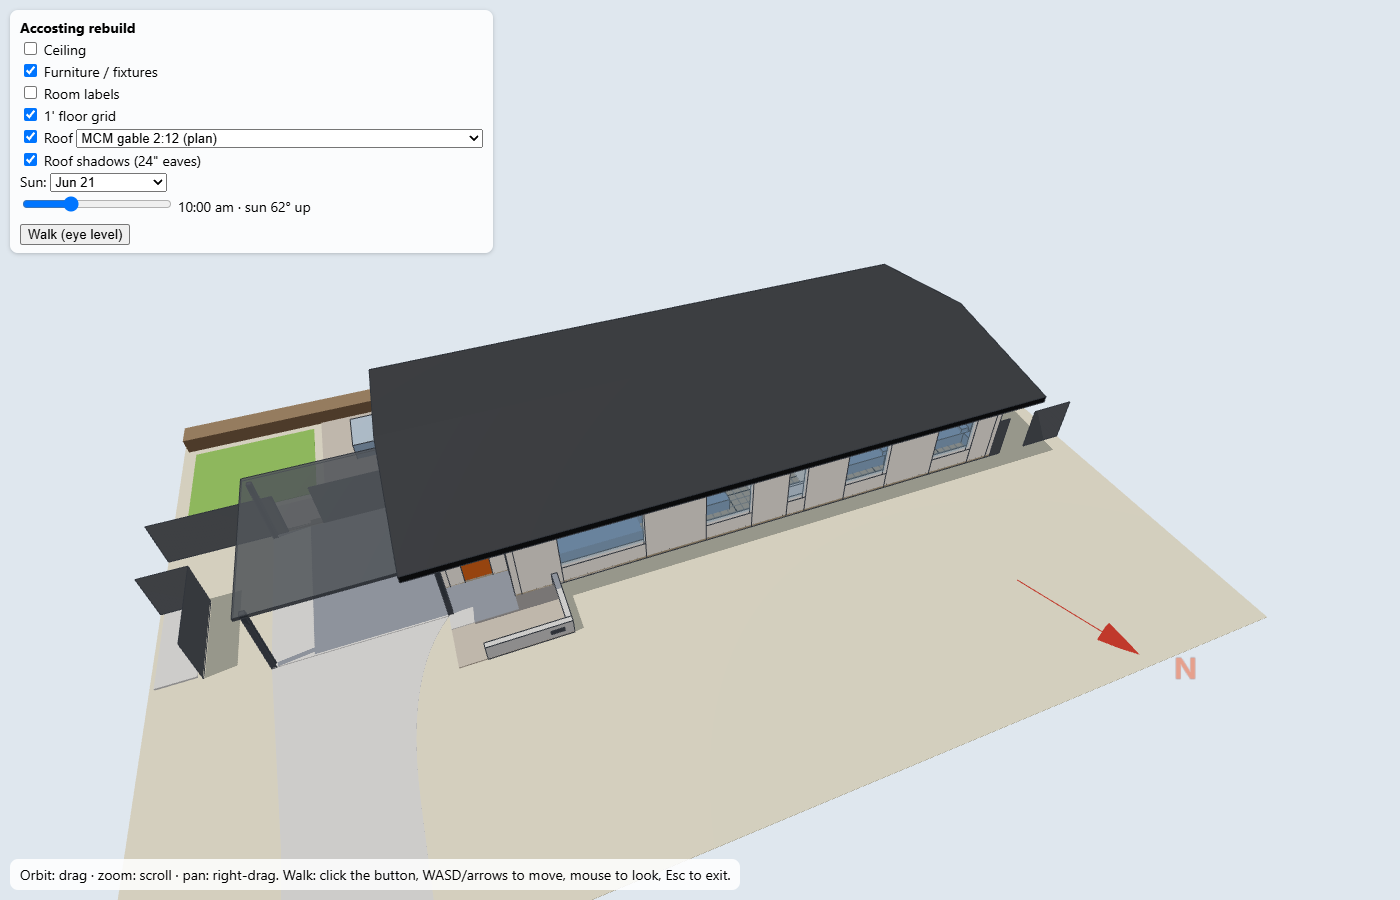
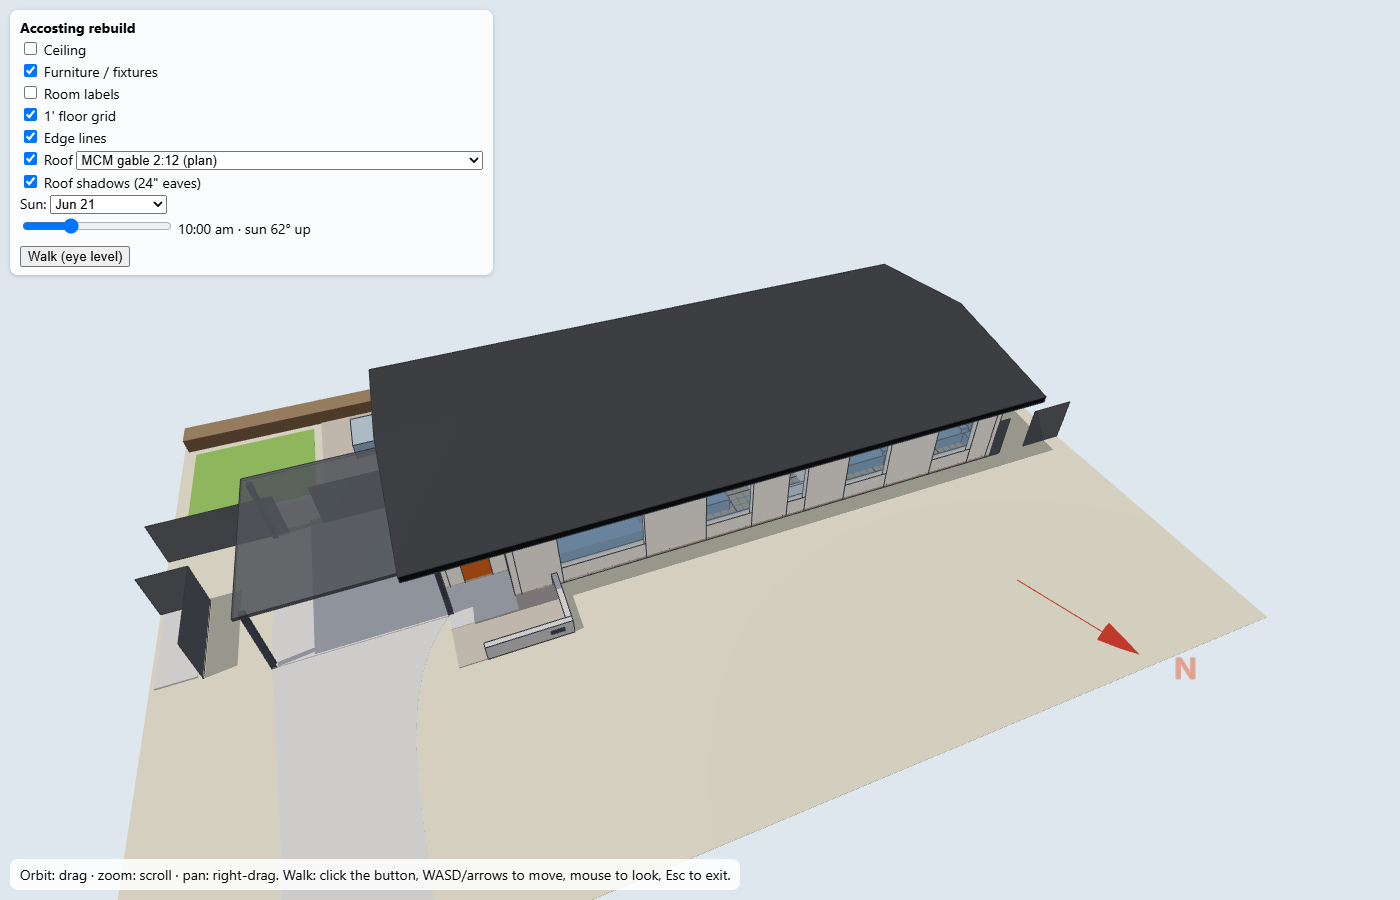
3D viewer: Edge lines toggle hides the outlines between wall pieces (continuous stucco look); #smooth opens with them off

Changed region(s): [[0.0, 0.1244, 0.3686, 0.3111]]

diff --git a/renders/3d/house.html b/renders/3d/house.html
@@ -27,6 +27,7 @@
   <label><input type="checkbox" id="furn" checked> Furniture / fixtures</label>
   <label><input type="checkbox" id="labels" checked> Room labels</label>
   <label><input type="checkbox" id="grid" checked> 1' floor grid</label>
+  <label><input type="checkbox" id="edges" checked> Edge lines</label>
   <label id="roofrow"><input type="checkbox" id="roofvis" checked> Roof
     <select id="roofopt" style="display:none"><option value="0">MCM gable 2:12 (plan)</option></select></label>
   <label><input type="checkbox" id="roofsh" checked> Roof shadows (24" eaves)</label>
@@ -306,6 +307,10 @@ if (location.hash === '#touchwalk') startTouchWalk();         // test hook
 const bind = (id, g) => document.getElementById(id).onchange = e => g.visible = e.target.checked;
 bind('ceil', groups.ceil); bind('furn', groups.furn); bind('labels', groups.labels); bind('roofsh', roofCaster);
 bind('roofvis', groups.roof); bind('grid', gridGroup);
+// Outlines on every face: handy for reading the model, but they also draw the seams between wall
+// pieces, which a real stucco wall doesn't have. One shared material, so one switch hides them all.
+document.getElementById('edges').onchange = e => { EDGE.visible = e.target.checked; };
+if (location.hash.includes('smooth')) { EDGE.visible = false; document.getElementById('edges').checked = false; }
 if (D.roof_hidden && !location.hash.includes('roof')) {     // main model opens with the roof off (#roof shows it)
   groups.roof.visible = false; document.getElementById('roofvis').checked = false;
 } else if (location.hash.includes('roof')) {                // exterior view: room labels would float over the roof

diff --git a/renders/experiments/clerestory-band/house.html b/renders/experiments/clerestory-band/house.html
@@ -27,6 +27,7 @@
   <label><input type="checkbox" id="furn" checked> Furniture / fixtures</label>
   <label><input type="checkbox" id="labels" checked> Room labels</label>
   <label><input type="checkbox" id="grid" checked> 1' floor grid</label>
+  <label><input type="checkbox" id="edges" checked> Edge lines</label>
   <label id="roofrow"><input type="checkbox" id="roofvis" checked> Roof
     <select id="roofopt" style="display:none"><option value="0">MCM gable 2:12 (plan)</option></select></label>
   <label><input type="checkbox" id="roofsh" checked> Roof shadows (24" eaves)</label>
@@ -306,6 +307,10 @@ if (location.hash === '#touchwalk') startTouchWalk();         // test hook
 const bind = (id, g) => document.getElementById(id).onchange = e => g.visible = e.target.checked;
 bind('ceil', groups.ceil); bind('furn', groups.furn); bind('labels', groups.labels); bind('roofsh', roofCaster);
 bind('roofvis', groups.roof); bind('grid', gridGroup);
+// Outlines on every face: handy for reading the model, but they also draw the seams between wall
+// pieces, which a real stucco wall doesn't have. One shared material, so one switch hides them all.
+document.getElementById('edges').onchange = e => { EDGE.visible = e.target.checked; };
+if (location.hash.includes('smooth')) { EDGE.visible = false; document.getElementById('edges').checked = false; }
 if (D.roof_hidden && !location.hash.includes('roof')) {     // main model opens with the roof off (#roof shows it)
   groups.roof.visible = false; document.getElementById('roofvis').checked = false;
 } else if (location.hash.includes('roof')) {                // exterior view: room labels would float over the roof

diff --git a/renders/experiments/clerestory-three3/house.html b/renders/experiments/clerestory-three3/house.html
@@ -27,6 +27,7 @@
   <label><input type="checkbox" id="furn" checked> Furniture / fixtures</label>
   <label><input type="checkbox" id="labels" checked> Room labels</label>
   <label><input type="checkbox" id="grid" checked> 1' floor grid</label>
+  <label><input type="checkbox" id="edges" checked> Edge lines</label>
   <label id="roofrow"><input type="checkbox" id="roofvis" checked> Roof
     <select id="roofopt" style="display:none"><option value="0">MCM gable 2:12 (plan)</option></select></label>
   <label><input type="checkbox" id="roofsh" checked> Roof shadows (24" eaves)</label>
@@ -306,6 +307,10 @@ if (location.hash === '#touchwalk') startTouchWalk();         // test hook
 const bind = (id, g) => document.getElementById(id).onchange = e => g.visible = e.target.checked;
 bind('ceil', groups.ceil); bind('furn', groups.furn); bind('labels', groups.labels); bind('roofsh', roofCaster);
 bind('roofvis', groups.roof); bind('grid', gridGroup);
+// Outlines on every face: handy for reading the model, but they also draw the seams between wall
+// pieces, which a real stucco wall doesn't have. One shared material, so one switch hides them all.
+document.getElementById('edges').onchange = e => { EDGE.visible = e.target.checked; };
+if (location.hash.includes('smooth')) { EDGE.visible = false; document.getElementById('edges').checked = false; }
 if (D.roof_hidden && !location.hash.includes('roof')) {     // main model opens with the roof off (#roof shows it)
   groups.roof.visible = false; document.getElementById('roofvis').checked = false;
 } else if (location.hash.includes('roof')) {                // exterior view: room labels would float over the roof

diff --git a/renders/experiments/clerestory-three4/house.html b/renders/experiments/clerestory-three4/house.html
@@ -27,6 +27,7 @@
   <label><input type="checkbox" id="furn" checked> Furniture / fixtures</label>
   <label><input type="checkbox" id="labels" checked> Room labels</label>
   <label><input type="checkbox" id="grid" checked> 1' floor grid</label>
+  <label><input type="checkbox" id="edges" checked> Edge lines</label>
   <label id="roofrow"><input type="checkbox" id="roofvis" checked> Roof
     <select id="roofopt" style="display:none"><option value="0">MCM gable 2:12 (plan)</option></select></label>
   <label><input type="checkbox" id="roofsh" checked> Roof shadows (24" eaves)</label>
@@ -306,6 +307,10 @@ if (location.hash === '#touchwalk') startTouchWalk();         // test hook
 const bind = (id, g) => document.getElementById(id).onchange = e => g.visible = e.target.checked;
 bind('ceil', groups.ceil); bind('furn', groups.furn); bind('labels', groups.labels); bind('roofsh', roofCaster);
 bind('roofvis', groups.roof); bind('grid', gridGroup);
+// Outlines on every face: handy for reading the model, but they also draw the seams between wall
+// pieces, which a real stucco wall doesn't have. One shared material, so one switch hides them all.
+document.getElementById('edges').onchange = e => { EDGE.visible = e.target.checked; };
+if (location.hash.includes('smooth')) { EDGE.visible = false; document.getElementById('edges').checked = false; }
 if (D.roof_hidden && !location.hash.includes('roof')) {     // main model opens with the roof off (#roof shows it)
   groups.roof.visible = false; document.getElementById('roofvis').checked = false;
 } else if (location.hash.includes('roof')) {                // exterior view: room labels would float over the roof

diff --git a/renders/experiments/clerestory-three5/house.html b/renders/experiments/clerestory-three5/house.html
@@ -27,6 +27,7 @@
   <label><input type="checkbox" id="furn" checked> Furniture / fixtures</label>
   <label><input type="checkbox" id="labels" checked> Room labels</label>
   <label><input type="checkbox" id="grid" checked> 1' floor grid</label>
+  <label><input type="checkbox" id="edges" checked> Edge lines</label>
   <label id="roofrow"><input type="checkbox" id="roofvis" checked> Roof
     <select id="roofopt" style="display:none"><option value="0">MCM gable 2:12 (plan)</option></select></label>
   <label><input type="checkbox" id="roofsh" checked> Roof shadows (24" eaves)</label>
@@ -306,6 +307,10 @@ if (location.hash === '#touchwalk') startTouchWalk();         // test hook
 const bind = (id, g) => document.getElementById(id).onchange = e => g.visible = e.target.checked;
 bind('ceil', groups.ceil); bind('furn', groups.furn); bind('labels', groups.labels); bind('roofsh', roofCaster);
 bind('roofvis', groups.roof); bind('grid', gridGroup);
+// Outlines on every face: handy for reading the model, but they also draw the seams between wall
+// pieces, which a real stucco wall doesn't have. One shared material, so one switch hides them all.
+document.getElementById('edges').onchange = e => { EDGE.visible = e.target.checked; };
+if (location.hash.includes('smooth')) { EDGE.visible = false; document.getElementById('edges').checked = false; }
 if (D.roof_hidden && !location.hash.includes('roof')) {     // main model opens with the roof off (#roof shows it)
   groups.roof.visible = false; document.getElementById('roofvis').checked = false;
 } else if (location.hash.includes('roof')) {                // exterior view: room labels would float over the roof

diff --git a/renders/experiments/clerestory-two5/house.html b/renders/experiments/clerestory-two5/house.html
@@ -27,6 +27,7 @@
   <label><input type="checkbox" id="furn" checked> Furniture / fixtures</label>
   <label><input type="checkbox" id="labels" checked> Room labels</label>
   <label><input type="checkbox" id="grid" checked> 1' floor grid</label>
+  <label><input type="checkbox" id="edges" checked> Edge lines</label>
   <label id="roofrow"><input type="checkbox" id="roofvis" checked> Roof
     <select id="roofopt" style="display:none"><option value="0">MCM gable 2:12 (plan)</option></select></label>
   <label><input type="checkbox" id="roofsh" checked> Roof shadows (24" eaves)</label>
@@ -306,6 +307,10 @@ if (location.hash === '#touchwalk') startTouchWalk();         // test hook
 const bind = (id, g) => document.getElementById(id).onchange = e => g.visible = e.target.checked;
 bind('ceil', groups.ceil); bind('furn', groups.furn); bind('labels', groups.labels); bind('roofsh', roofCaster);
 bind('roofvis', groups.roof); bind('grid', gridGroup);
+// Outlines on every face: handy for reading the model, but they also draw the seams between wall
+// pieces, which a real stucco wall doesn't have. One shared material, so one switch hides them all.
+document.getElementById('edges').onchange = e => { EDGE.visible = e.target.checked; };
+if (location.hash.includes('smooth')) { EDGE.visible = false; document.getElementById('edges').checked = false; }
 if (D.roof_hidden && !location.hash.includes('roof')) {     // main model opens with the roof off (#roof shows it)
   groups.roof.visible = false; document.getElementById('roofvis').checked = false;
 } else if (location.hash.includes('roof')) {                // exterior view: room labels would float over the roof

diff --git a/renders/experiments/clerestory-two6/house.html b/renders/experiments/clerestory-two6/house.html
@@ -27,6 +27,7 @@
   <label><input type="checkbox" id="furn" checked> Furniture / fixtures</label>
   <label><input type="checkbox" id="labels" checked> Room labels</label>
   <label><input type="checkbox" id="grid" checked> 1' floor grid</label>
+  <label><input type="checkbox" id="edges" checked> Edge lines</label>
   <label id="roofrow"><input type="checkbox" id="roofvis" checked> Roof
     <select id="roofopt" style="display:none"><option value="0">MCM gable 2:12 (plan)</option></select></label>
   <label><input type="checkbox" id="roofsh" checked> Roof shadows (24" eaves)</label>
@@ -306,6 +307,10 @@ if (location.hash === '#touchwalk') startTouchWalk();         // test hook
 const bind = (id, g) => document.getElementById(id).onchange = e => g.visible = e.target.checked;
 bind('ceil', groups.ceil); bind('furn', groups.furn); bind('labels', groups.labels); bind('roofsh', roofCaster);
 bind('roofvis', groups.roof); bind('grid', gridGroup);
+// Outlines on every face: handy for reading the model, but they also draw the seams between wall
+// pieces, which a real stucco wall doesn't have. One shared material, so one switch hides them all.
+document.getElementById('edges').onchange = e => { EDGE.visible = e.target.checked; };
+if (location.hash.includes('smooth')) { EDGE.visible = false; document.getElementById('edges').checked = false; }
 if (D.roof_hidden && !location.hash.includes('roof')) {     // main model opens with the roof off (#roof shows it)
   groups.roof.visible = false; document.getElementById('roofvis').checked = false;
 } else if (location.hash.includes('roof')) {                // exterior view: room labels would float over the roof

diff --git a/renders/experiments/clerestory-two8/house.html b/renders/experiments/clerestory-two8/house.html
@@ -27,6 +27,7 @@
   <label><input type="checkbox" id="furn" checked> Furniture / fixtures</label>
   <label><input type="checkbox" id="labels" checked> Room labels</label>
   <label><input type="checkbox" id="grid" checked> 1' floor grid</label>
+  <label><input type="checkbox" id="edges" checked> Edge lines</label>
   <label id="roofrow"><input type="checkbox" id="roofvis" checked> Roof
     <select id="roofopt" style="display:none"><option value="0">MCM gable 2:12 (plan)</option></select></label>
   <label><input type="checkbox" id="roofsh" checked> Roof shadows (24" eaves)</label>
@@ -306,6 +307,10 @@ if (location.hash === '#touchwalk') startTouchWalk();         // test hook
 const bind = (id, g) => document.getElementById(id).onchange = e => g.visible = e.target.checked;
 bind('ceil', groups.ceil); bind('furn', groups.furn); bind('labels', groups.labels); bind('roofsh', roofCaster);
 bind('roofvis', groups.roof); bind('grid', gridGroup);
+// Outlines on every face: handy for reading the model, but they also draw the seams between wall
+// pieces, which a real stucco wall doesn't have. One shared material, so one switch hides them all.
+document.getElementById('edges').onchange = e => { EDGE.visible = e.target.checked; };
+if (location.hash.includes('smooth')) { EDGE.visible = false; document.getElementById('edges').checked = false; }
 if (D.roof_hidden && !location.hash.includes('roof')) {     // main model opens with the roof off (#roof shows it)
   groups.roof.visible = false; document.getElementById('roofvis').checked = false;
 } else if (location.hash.includes('roof')) {                // exterior view: room labels would float over the roof

diff --git a/renders/experiments/exterior-mcm-gable/house.html b/renders/experiments/exterior-mcm-gable/house.html
@@ -27,6 +27,7 @@
   <label><input type="checkbox" id="furn" checked> Furniture / fixtures</label>
   <label><input type="checkbox" id="labels" checked> Room labels</label>
   <label><input type="checkbox" id="grid" checked> 1' floor grid</label>
+  <label><input type="checkbox" id="edges" checked> Edge lines</label>
   <label id="roofrow"><input type="checkbox" id="roofvis" checked> Roof
     <select id="roofopt" style="display:none"><option value="0">MCM gable 2:12 (plan)</option></select></label>
   <label><input type="checkbox" id="roofsh" checked> Roof shadows (24" eaves)</label>
@@ -306,6 +307,10 @@ if (location.hash === '#touchwalk') startTouchWalk();         // test hook
 const bind = (id, g) => document.getElementById(id).onchange = e => g.visible = e.target.checked;
 bind('ceil', groups.ceil); bind('furn', groups.furn); bind('labels', groups.labels); bind('roofsh', roofCaster);
 bind('roofvis', groups.roof); bind('grid', gridGroup);
+// Outlines on every face: handy for reading the model, but they also draw the seams between wall
+// pieces, which a real stucco wall doesn't have. One shared material, so one switch hides them all.
+document.getElementById('edges').onchange = e => { EDGE.visible = e.target.checked; };
+if (location.hash.includes('smooth')) { EDGE.visible = false; document.getElementById('edges').checked = false; }
 if (D.roof_hidden && !location.hash.includes('roof')) {     // main model opens with the roof off (#roof shows it)
   groups.roof.visible = false; document.getElementById('roofvis').checked = false;
 } else if (location.hash.includes('roof')) {                // exterior view: room labels would float over the roof

diff --git a/renders/experiments/exterior-mcm-shed-vault/house.html b/renders/experiments/exterior-mcm-shed-vault/house.html
@@ -27,6 +27,7 @@
   <label><input type="checkbox" id="furn" checked> Furniture / fixtures</label>
   <label><input type="checkbox" id="labels" checked> Room labels</label>
   <label><input type="checkbox" id="grid" checked> 1' floor grid</label>
+  <label><input type="checkbox" id="edges" checked> Edge lines</label>
   <label id="roofrow"><input type="checkbox" id="roofvis" checked> Roof
     <select id="roofopt" style="display:none"><option value="0">MCM gable 2:12 (plan)</option></select></label>
   <label><input type="checkbox" id="roofsh" checked> Roof shadows (24" eaves)</label>
@@ -306,6 +307,10 @@ if (location.hash === '#touchwalk') startTouchWalk();         // test hook
 const bind = (id, g) => document.getElementById(id).onchange = e => g.visible = e.target.checked;
 bind('ceil', groups.ceil); bind('furn', groups.furn); bind('labels', groups.labels); bind('roofsh', roofCaster);
 bind('roofvis', groups.roof); bind('grid', gridGroup);
+// Outlines on every face: handy for reading the model, but they also draw the seams between wall
+// pieces, which a real stucco wall doesn't have. One shared material, so one switch hides them all.
+document.getElementById('edges').onchange = e => { EDGE.visible = e.target.checked; };
+if (location.hash.includes('smooth')) { EDGE.visible = false; document.getElementById('edges').checked = false; }
 if (D.roof_hidden && !location.hash.includes('roof')) {     // main model opens with the roof off (#roof shows it)
   groups.roof.visible = false; document.getElementById('roofvis').checked = false;
 } else if (location.hash.includes('roof')) {                // exterior view: room labels would float over the roof

diff --git a/renders/experiments/exterior-mcm-shed/house.html b/renders/experiments/exterior-mcm-shed/house.html
@@ -27,6 +27,7 @@
   <label><input type="checkbox" id="furn" checked> Furniture / fixtures</label>
   <label><input type="checkbox" id="labels" checked> Room labels</label>
   <label><input type="checkbox" id="grid" checked> 1' floor grid</label>
+  <label><input type="checkbox" id="edges" checked> Edge lines</label>
   <label id="roofrow"><input type="checkbox" id="roofvis" checked> Roof
     <select id="roofopt" style="display:none"><option value="0">MCM gable 2:12 (plan)</option></select></label>
   <label><input type="checkbox" id="roofsh" checked> Roof shadows (24" eaves)</label>
@@ -306,6 +307,10 @@ if (location.hash === '#touchwalk') startTouchWalk();         // test hook
 const bind = (id, g) => document.getElementById(id).onchange = e => g.visible = e.target.checked;
 bind('ceil', groups.ceil); bind('furn', groups.furn); bind('labels', groups.labels); bind('roofsh', roofCaster);
 bind('roofvis', groups.roof); bind('grid', gridGroup);
+// Outlines on every face: handy for reading the model, but they also draw the seams between wall
+// pieces, which a real stucco wall doesn't have. One shared material, so one switch hides them all.
+document.getElementById('edges').onchange = e => { EDGE.visible = e.target.checked; };
+if (location.hash.includes('smooth')) { EDGE.visible = false; document.getElementById('edges').checked = false; }
 if (D.roof_hidden && !location.hash.includes('roof')) {     // main model opens with the roof off (#roof shows it)
   groups.roof.visible = false; document.getElementById('roofvis').checked = false;
 } else if (location.hash.includes('roof')) {                // exterior view: room labels would float over the roof

diff --git a/renders/experiments/exterior-metal-mcm-butterfly/house.html b/renders/experiments/exterior-metal-mcm-butterfly/house.html
@@ -27,6 +27,7 @@
   <label><input type="checkbox" id="furn" checked> Furniture / fixtures</label>
   <label><input type="checkbox" id="labels" checked> Room labels</label>
   <label><input type="checkbox" id="grid" checked> 1' floor grid</label>
+  <label><input type="checkbox" id="edges" checked> Edge lines</label>
   <label id="roofrow"><input type="checkbox" id="roofvis" checked> Roof
     <select id="roofopt" style="display:none"><option value="0">MCM gable 2:12 (plan)</option></select></label>
   <label><input type="checkbox" id="roofsh" checked> Roof shadows (24" eaves)</label>
@@ -306,6 +307,10 @@ if (location.hash === '#touchwalk') startTouchWalk();         // test hook
 const bind = (id, g) => document.getElementById(id).onchange = e => g.visible = e.target.checked;
 bind('ceil', groups.ceil); bind('furn', groups.furn); bind('labels', groups.labels); bind('roofsh', roofCaster);
 bind('roofvis', groups.roof); bind('grid', gridGroup);
+// Outlines on every face: handy for reading the model, but they also draw the seams between wall
+// pieces, which a real stucco wall doesn't have. One shared material, so one switch hides them all.
+document.getElementById('edges').onchange = e => { EDGE.visible = e.target.checked; };
+if (location.hash.includes('smooth')) { EDGE.visible = false; document.getElementById('edges').checked = false; }
 if (D.roof_hidden && !location.hash.includes('roof')) {     // main model opens with the roof off (#roof shows it)
   groups.roof.visible = false; document.getElementById('roofvis').checked = false;
 } else if (location.hash.includes('roof')) {                // exterior view: room labels would float over the roof
